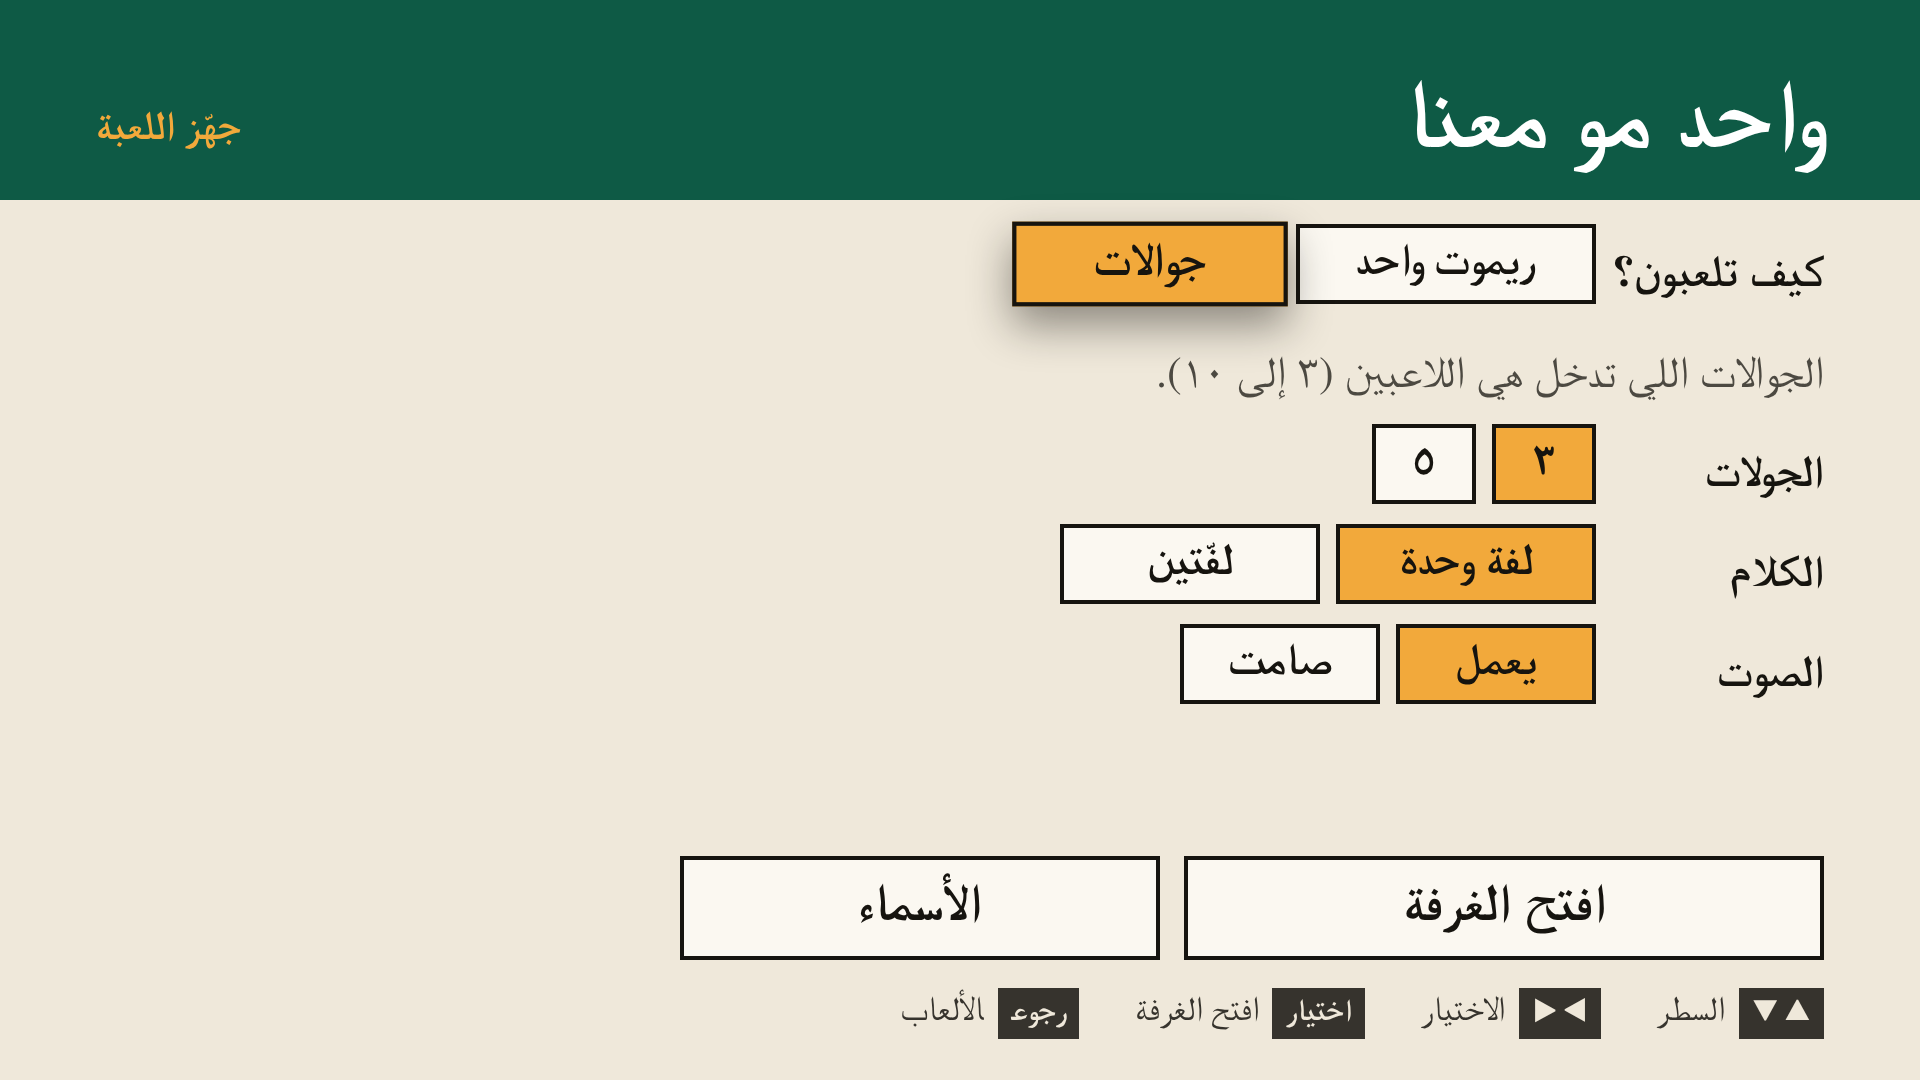
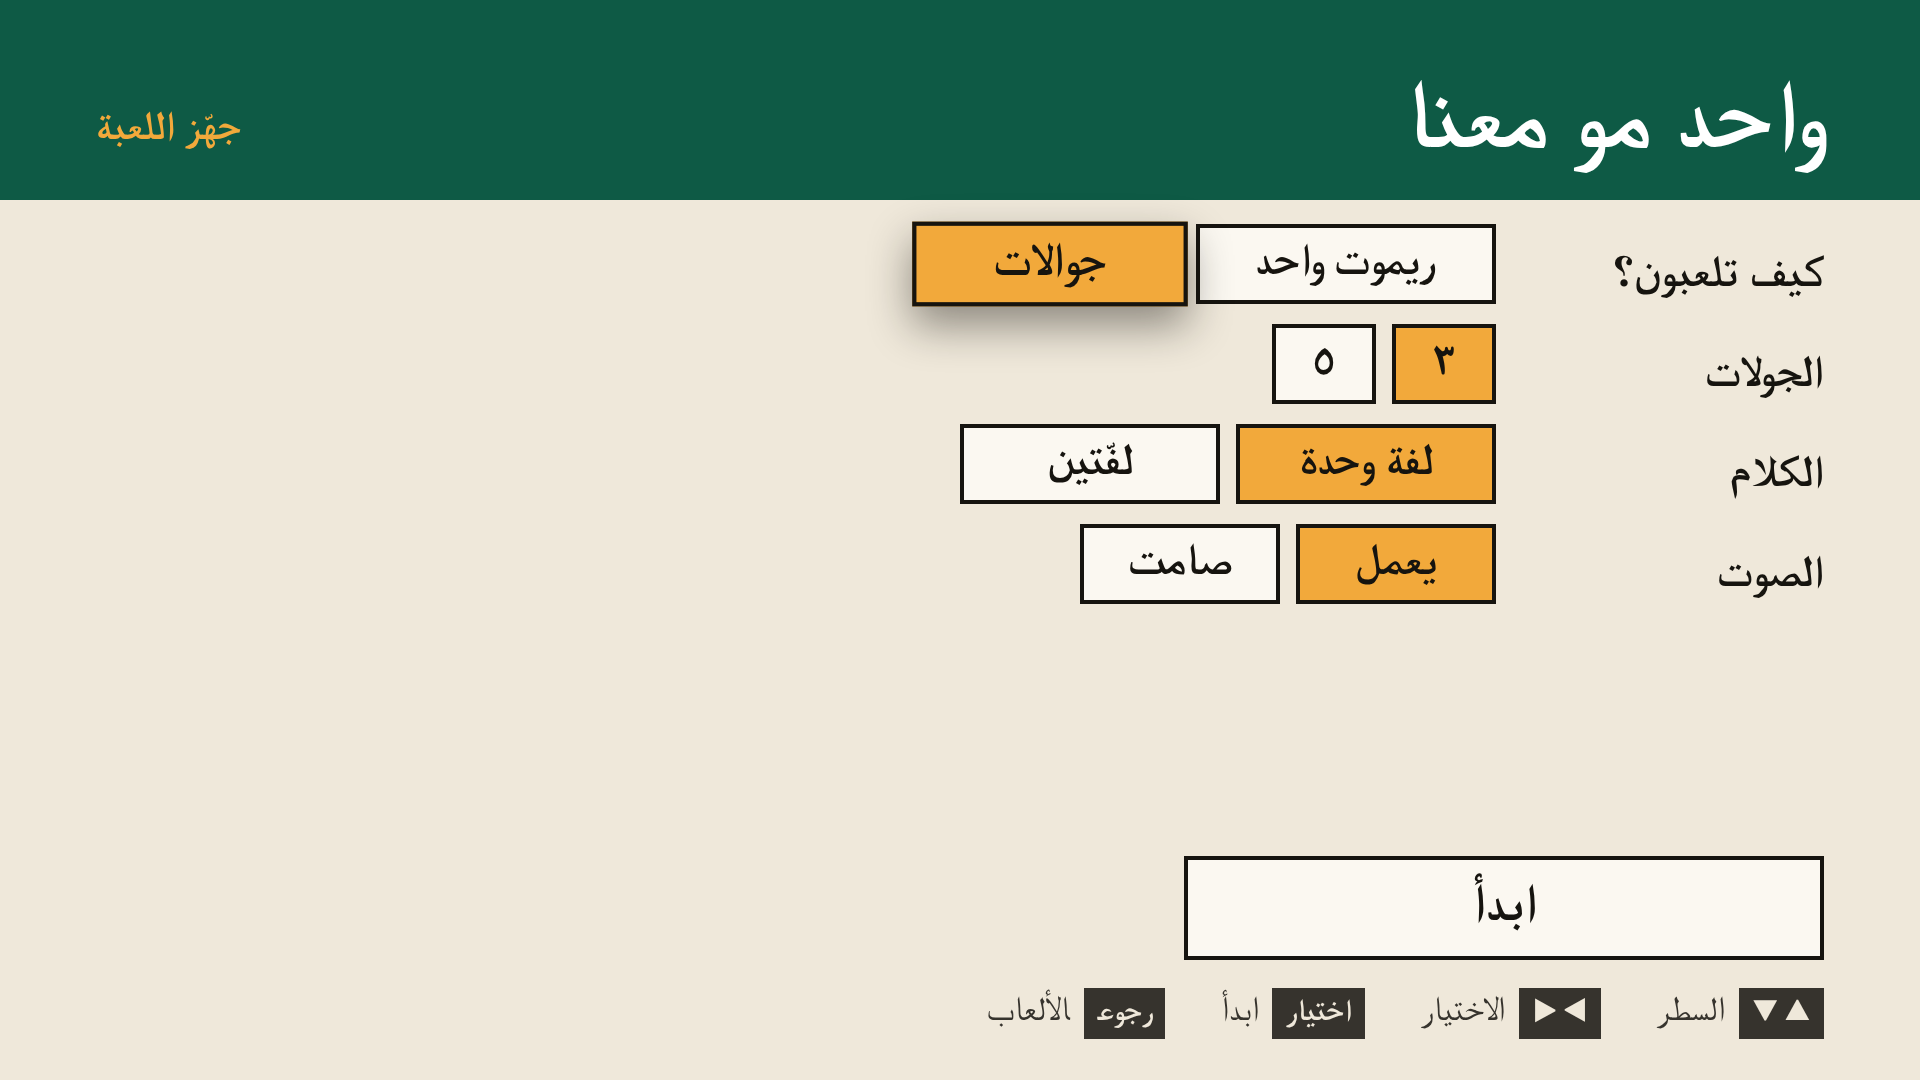
games-flow proposal revised after the UI session's simplicity review: Latin address, no extra close button, no names and no sentence with phones, ابدأ in both modes, quiet tags, the room at 720p with font 1.3

diff --git a/docs/research/GAMES-FLOW.md b/docs/research/GAMES-FLOW.md
@@ -19,13 +19,15 @@ The owner finds the way to play with a phone or without one «not good». This p
 6. **The player count lives in the setup for the remote and nowhere for phones** (the joined phones are the players), but the row is shown either way.
 7. **Number of presses to start a round, no phones** (odd-one, 4 players): tile OK, «ابدأ», then 3 presses a player (ready, secret, hide). With phones: tile OK, up twice and left and OK to turn the switch on, «ابدأ», each phone scans and types and taps, the host presses again.
 
-## The proposal: ONE choice, in ONE place
+## The proposal: ONE choice, in ONE place (revised after the UI session's simplicity review, docs/ui/SIMPLE.md)
 
-1. **A single first row on every setup page: «كيف تلعبون؟» with «ريموت واحد» and «جوالات»** (after-01, after-02). It replaces «اللعب بالجوالات», «اللعب بالريموت بس» and the header button. A game that can only be played one way does not show the row. It is **remembered per game** (not «off every time»); the default is the way the game was designed (the older games «ريموت واحد», the party games «جوالات» unless they have a remote way).
-2. **The player count row only for «ريموت واحد»**; with «جوالات» a line says «الجوالات اللي تدخل هي اللاعبين (٣ إلى ١٠)», and the start button is «افتح الغرفة».
-3. **The list loses the header phone button** (after-04): the tiles already say «جوال» / «ريموت» / «ريموت أو جوال», and the moon (night) stays. Every tile opens the same way.
-4. **One block for the room, with a way out** (after-03): the QR, the address (the code only inside it), the phones that came as coloured name tiles with the count («٣ من ٣ على الأقل»), «ابدأ» (grey until enough) and, beside it, **«نلعب بالريموت بدلاً»** for a game that has a remote way: it closes the room and starts the same game on the remote (the choice is remembered). A phone-only game shows only «أغلق الغرفة».
-5. **Nothing else changes**: the hand-over (pass screen, count, secret, hide) stays as it is, the names stay optional, the how-to «!» stays; the only text changes are the new row, the room's line and the two buttons.
+1. **A single first row on every setup page: «كيف تلعبون؟» with «ريموت واحد» and «جوالات»** (after-01, after-02). It replaces «اللعب بالجوالات», «اللعب بالريموت بس» and the header button. A game that can only be played one way does not show the row. **Remembered per game**; the default is the way the game was designed (the older games «ريموت واحد», the party games «جوالات» unless they have a remote way); the focus starts on the current value.
+2. **«ابدأ» is the primary in both modes** (not «افتح الغرفة»: the room is just what comes next). With «جوالات» the player-count row goes, **«الأسماء» goes too** (the phones type their own names) and there is no explaining sentence: the room says the count once.
+3. **The list loses the header phone button** (after-04). Every tile opens the same way. The tags use the row's words, all in one quiet outlined style: «ريموت» / «جوالات» / «ريموت أو جوالات».
+4. **One block for the room, with a quiet way out** (after-03-room-short, after-03-room-enough): the QR, the address **in Latin digits** (it is typed into a phone's browser) with the code only inside it, the phones that came as coloured name tiles. While short, one line «ناقص لاعب» (or «ناقص ٢»); when enough have come the line is gone and «ابدأ» lights up in place (the focus is on «ابدأ» even while it is grey: OK on it only shows the «ناقص …» line, no focus jump). Beside it **«نلعب بالريموت»** for a game that has a remote way: it closes the room and starts the same game on the remote (the choice is remembered). A phone-only game shows «ابدأ» alone: **no «أغلق الغرفة» button** (Back is the key and the footer says so).
+5. **Nothing else changes**: the hand-over (pass screen, count, secret, hide) stays as it is, the names stay optional with the remote, the how-to «!» stays.
+
+At 720p with the system font at 1.3 (SIMPLE.md rule 5) the same screens: `after-01-setup-remote-720p-font1.3.png`, `after-02-setup-phones-720p-font1.3.png`, `after-03-room-short-720p-font1.3.png`, `after-03-room-enough-720p-font1.3.png` (the room, the screen most likely to clip, fits). They are mockups: the real layout fits text with the kit's `clip` and the lowering of sizes.
 
 ## What it changes in the code (small)
 
@@ -40,9 +42,9 @@ The owner finds the way to play with a phone or without one «not good». This p
 | Before (emulator, today) | After (mockup) |
 |---|---|
 | `before-01-list-header.png`: the header line and the tags | `after-04-list-no-phone-button.png` |
-| `before-02-oddone-setup.png`: «اللعب بالجوالات: لا» row | `after-01-setup-one-switch.png`, `after-02-setup-phones.png` |
+| `before-02-oddone-setup.png`: «اللعب بالجوالات: لا» row | `after-01-setup-remote.png`, `after-02-setup-phones.png` |
 | `before-03-oddone-remote-start.png`: the remote's first screen | unchanged |
-| `before-07-oddone-phones-lobby.png`, `before-09-liar-lobby.png`, `before-11-quiz-room.png`: the grey room | `after-03-room-one-block.png` |
+| `before-07-oddone-phones-lobby.png`, `before-09-liar-lobby.png`, `before-11-quiz-room.png`: the grey room | `after-03-room-short.png`, `after-03-room-enough.png` |
 | `before-08-liar-setup.png`: a party game with no remote way | the same page with the row «كيف تلعبون؟» |
 
-To be decided by the owner: whether the default for the party games is «جوالات» (as now) or «ريموت واحد»; whether the header button goes (the proposal) or stays as a shortcut.
+To be decided by the owner: whether the default for the party games is «جوالات» (as now) or «ريموت واحد».
